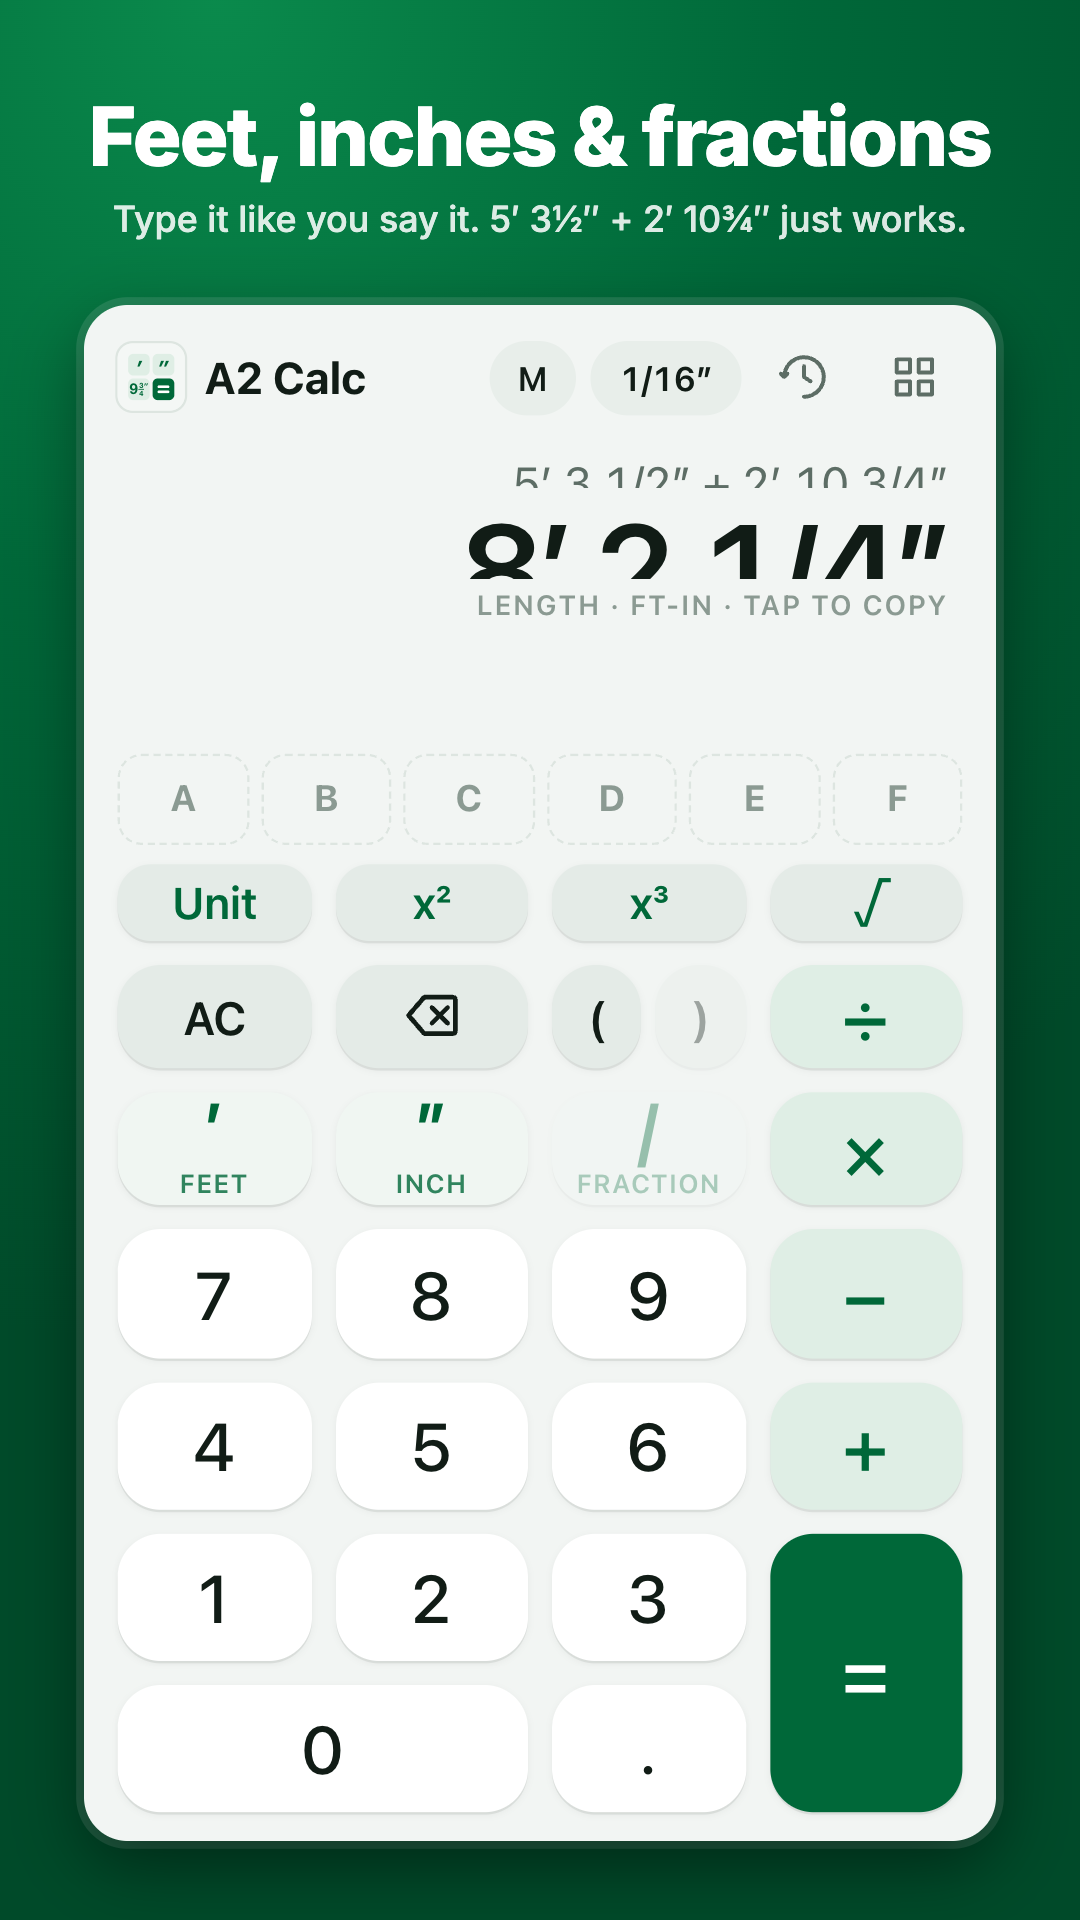
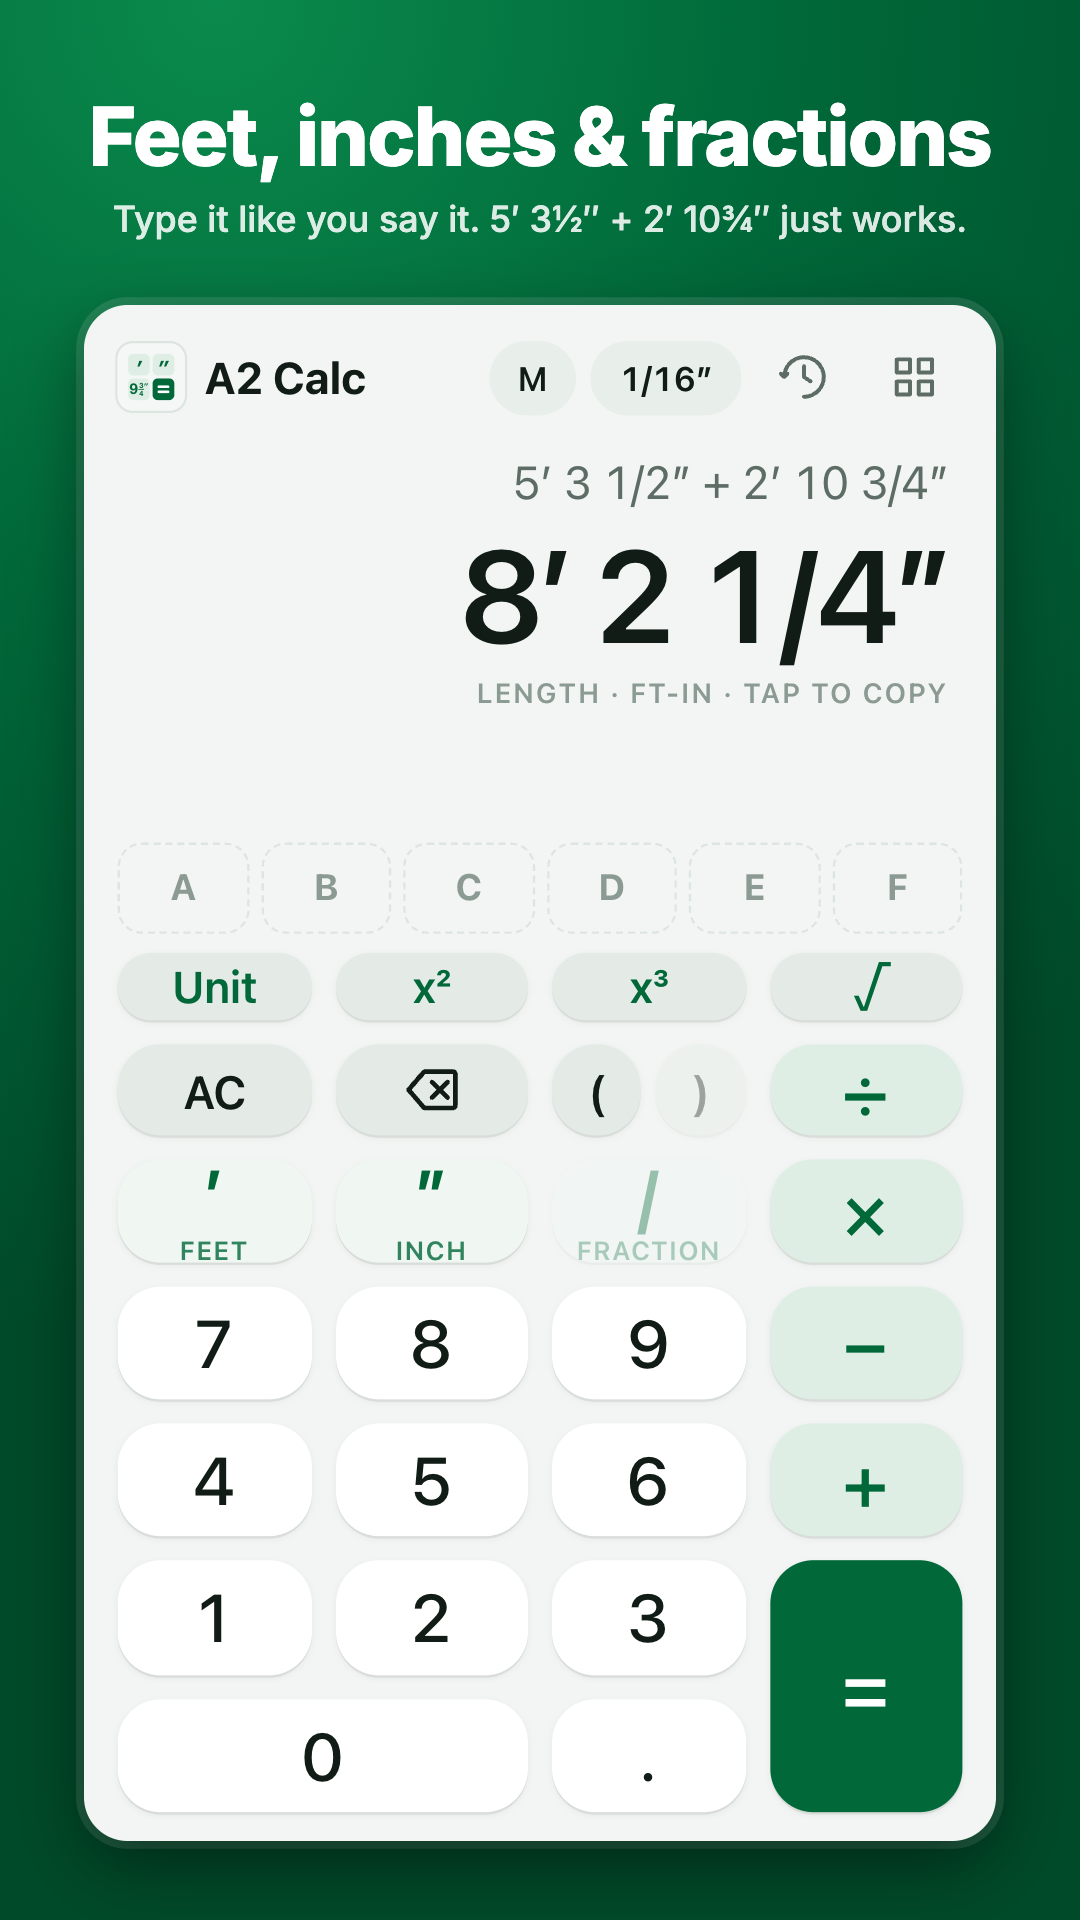
Calculator: never cut off the formula or answer on short screens
On a phone about 640 pt tall the display was squeezed below its text:
its scrolling children shrank, cutting the tops off the answer and the
formula. The display now keeps its content height and the children
never shrink. Also retakes the Play phone calculator screenshot, which
showed the bug, and shots.cjs writes play_* sets to play/<name> as its
header says.

Claude-Session: https://claude.ai/code/session_018D1acourmPaH6u1NhA4vDd

diff --git a/src/routes/+page.svelte b/src/routes/+page.svelte
@@ -432,7 +432,7 @@
 	.display {
 		/* Takes what the keys leave; never squeezed below a readable answer. */
 		flex: 1 1 auto;
-		min-height: 104px;
+		min-height: min-content;
 		display: flex;
 		flex-direction: column;
 		justify-content: flex-end;
@@ -440,6 +440,12 @@
 		text-align: right;
 		padding: 8px 6px 10px;
 		overflow: hidden;
+	}
+	/* Scrolling boxes in a flex column may otherwise shrink below their
+	   text, which cut the tops off the formula and the answer on short
+	   screens (a 640 pt tall phone). */
+	.display > * {
+		flex-shrink: 0;
 	}
 	.expr {
 		font-size: 1.2rem;
